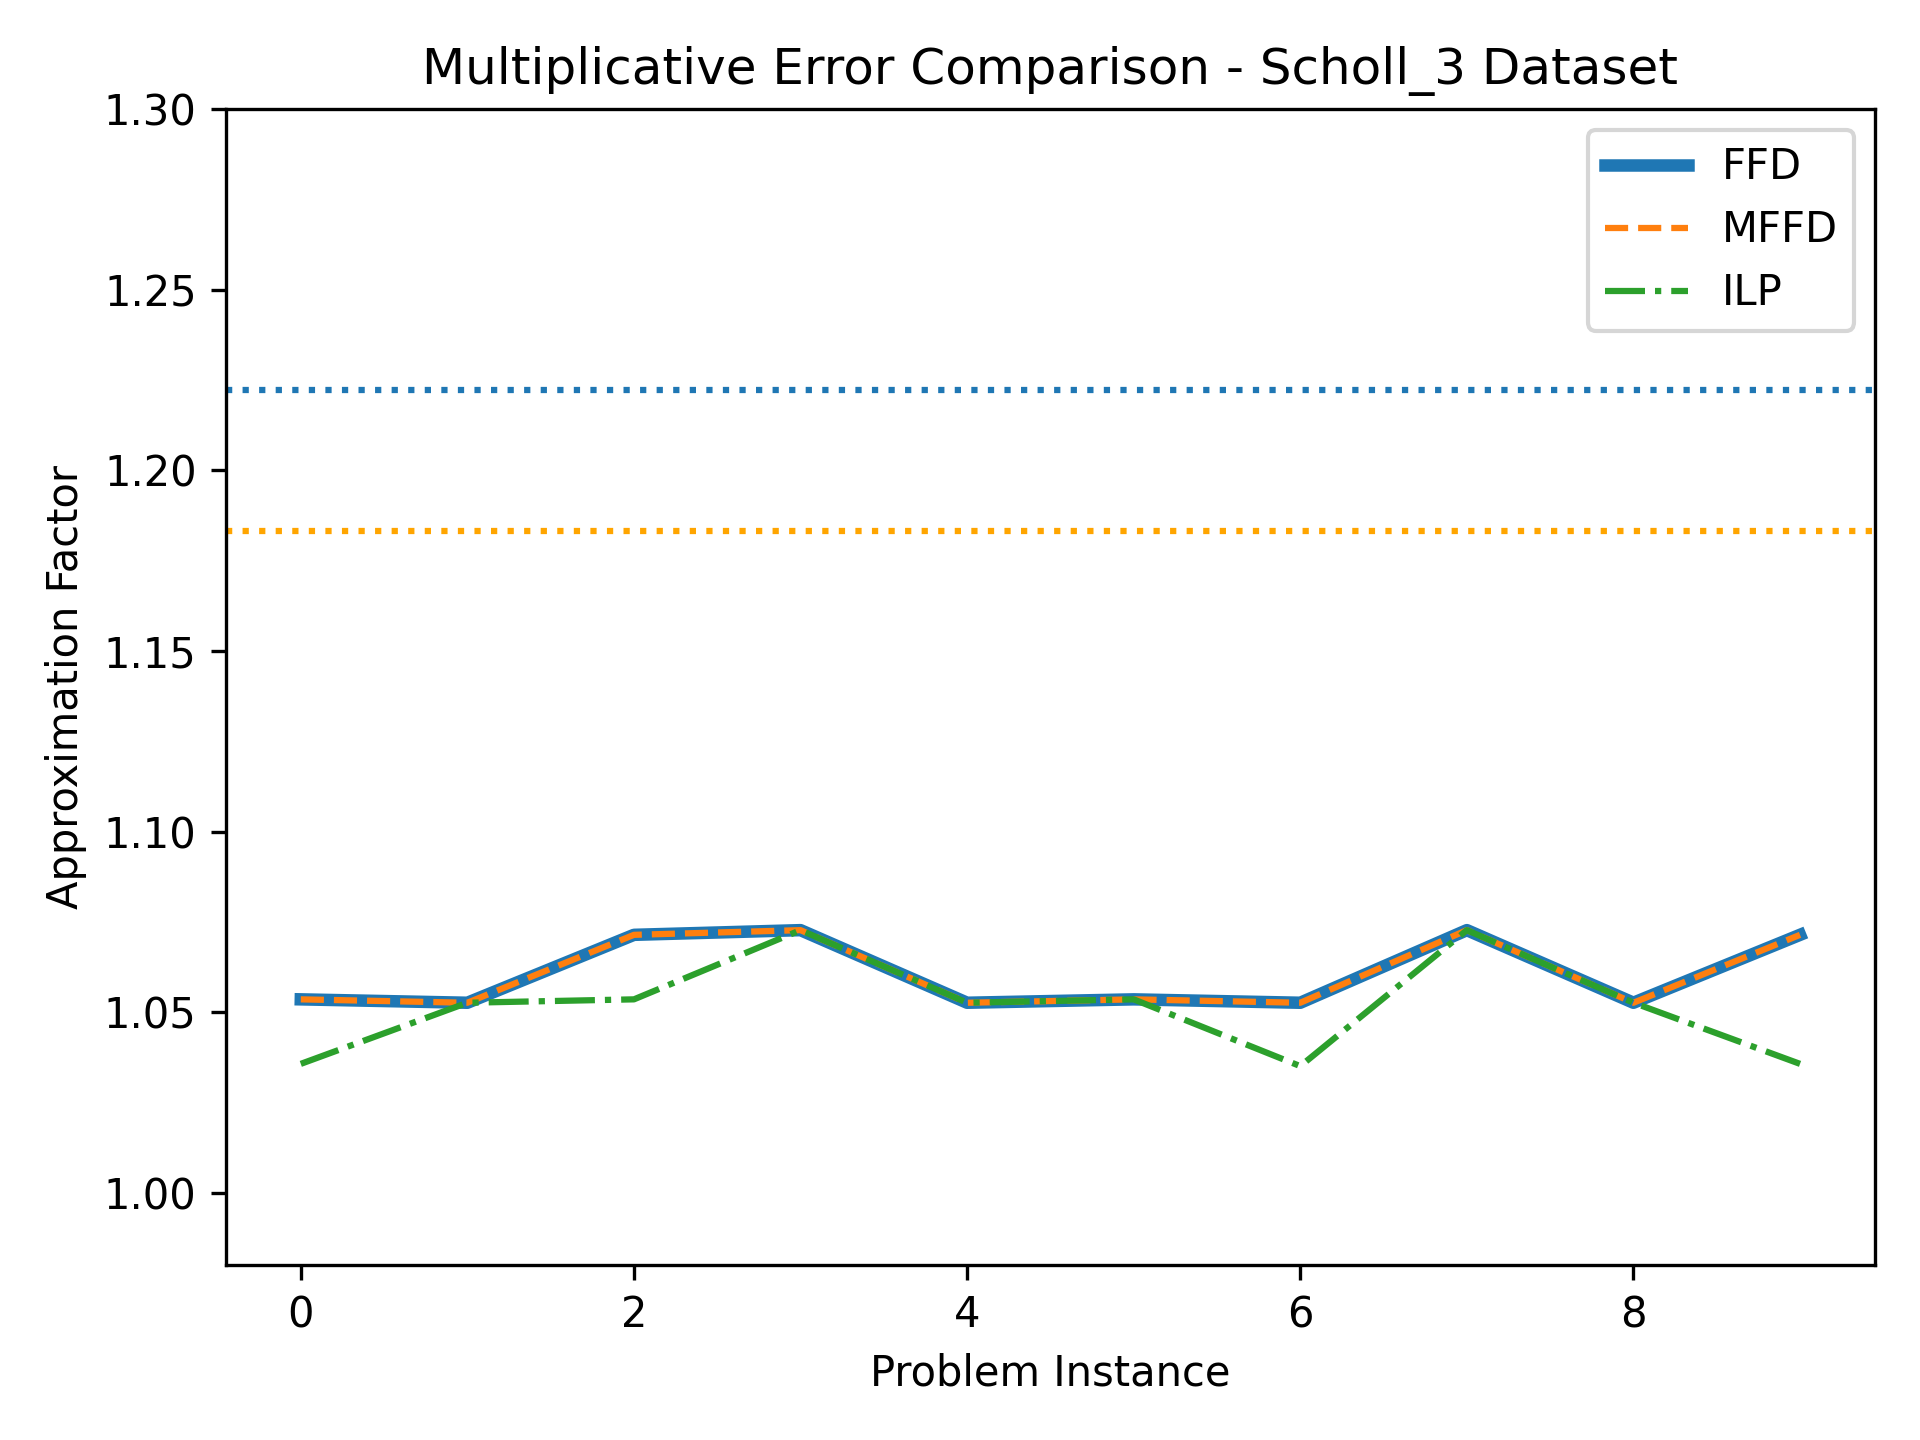
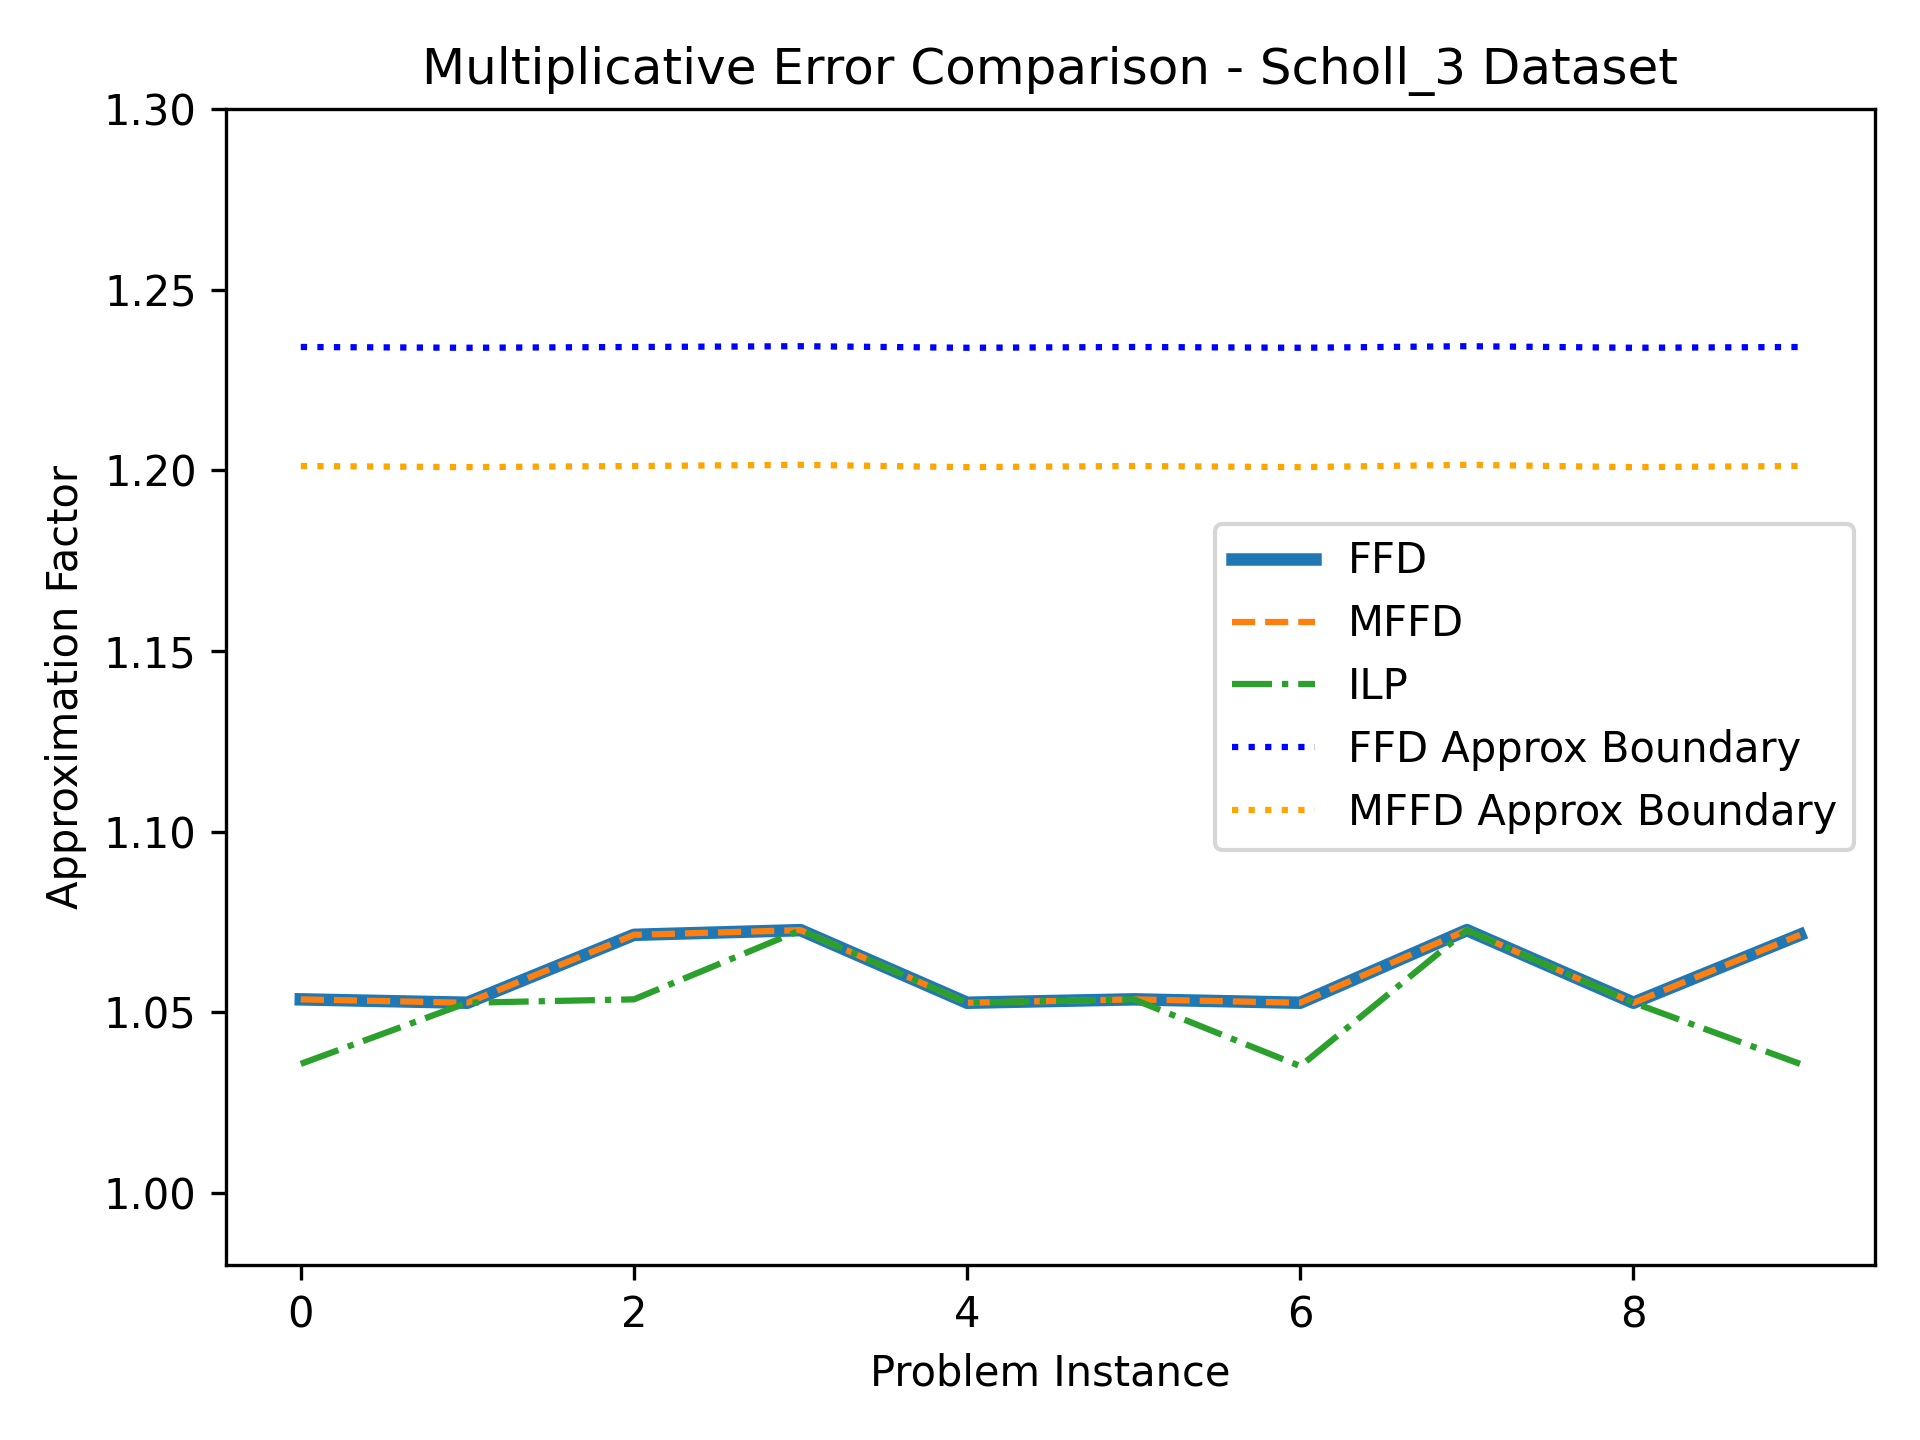
Fixed approximation boundary line

Changed region(s): [[0.625, 0.4688, 0.9688, 0.5938], [0.625, 0.3438, 0.9688, 0.4375], [0.8125, 0.0938, 0.9688, 0.25]]

diff --git a/result_analysis/result_analysis.py b/result_analysis/result_analysis.py
@@ -74,10 +74,10 @@ for resultSet in resultSets:
 
     plt.ylim((0.98,1.3))
 
-    plt.axhline(11/9, linestyle='dotted')
-    plt.axhline(71/60, linestyle='dotted', color='orange')
+    plt.plot(11/9 + 6/9/resultSet['expected_bins'], linestyle='dotted', color='blue')
+    plt.plot(71/60 + 1/resultSet['expected_bins'], linestyle='dotted', color='orange')
 
-    plt.legend(["FFD", "MFFD", "ILP"])
+    plt.legend(["FFD", "MFFD", "ILP", "FFD Approx Boundary", "MFFD Approx Boundary"])
     plt.tight_layout()
     plt.savefig(f"result_analysis/graphs/approximation_comparison_{resultSet['set'][0]}.png", dpi=300)
 
